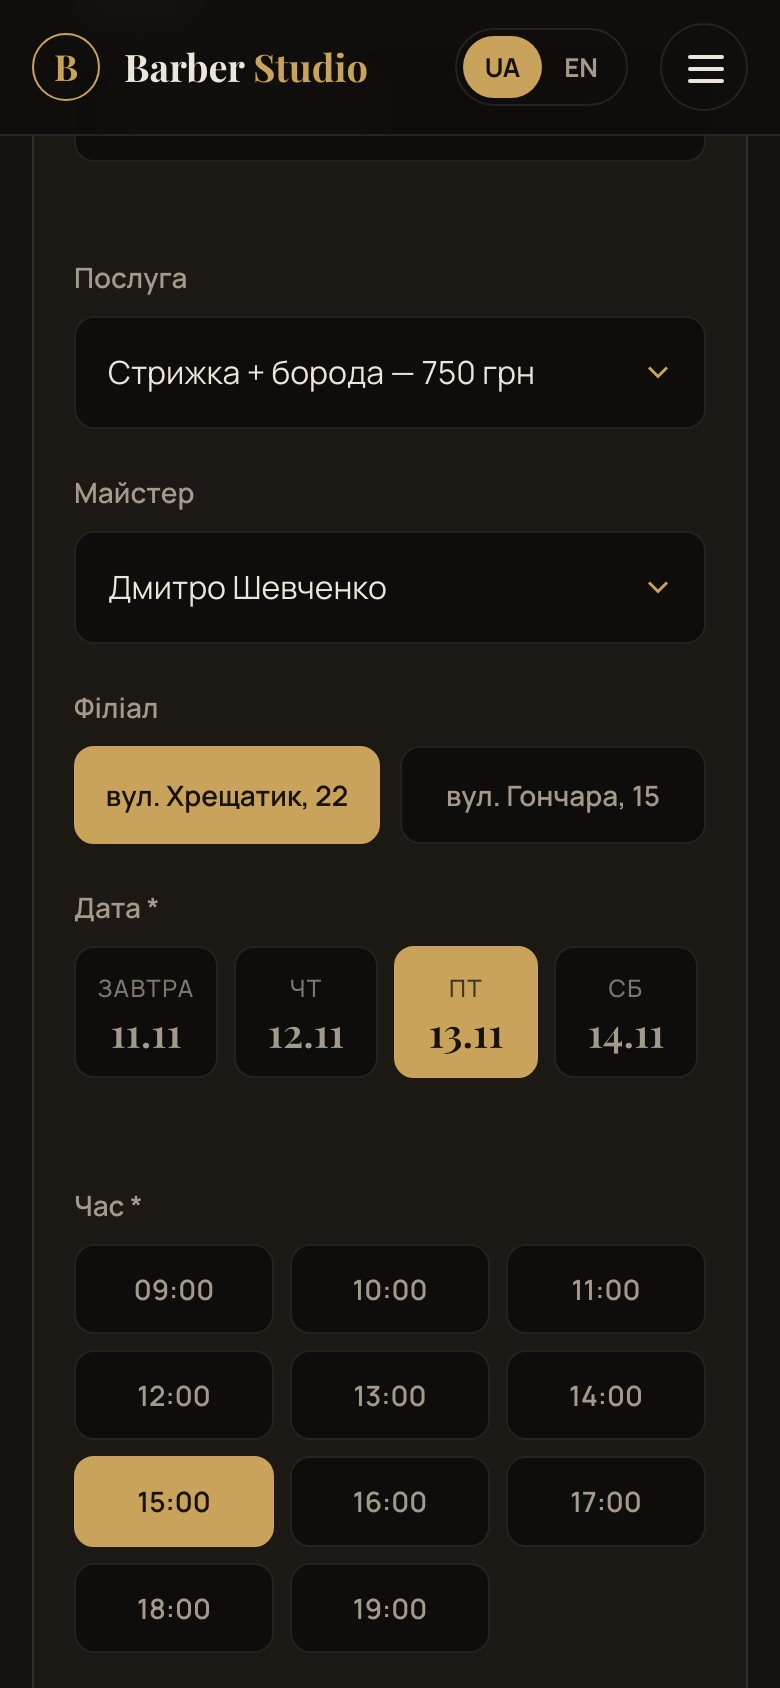
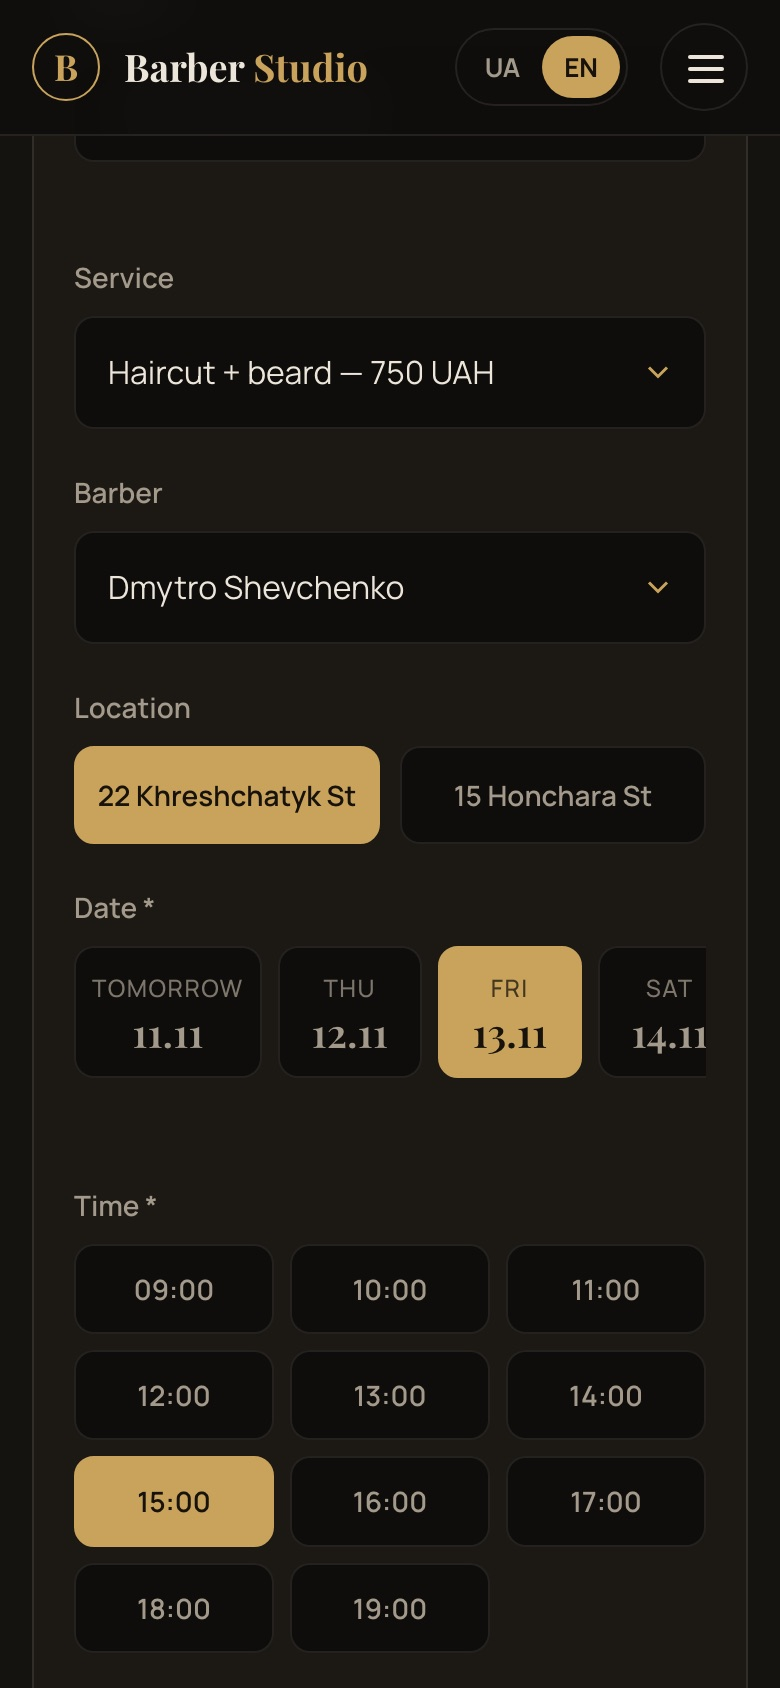
English screenshots in README and ?lang=en link
- Retake all four README screenshots on the English version
- A ?lang=en (or ?lang=uk) link now opens the site in that language
- README live demo points to the English version

diff --git a/script.js b/script.js
@@ -860,13 +860,16 @@ form.addEventListener("submit", async (event) => {
 
 document.getElementById("year").textContent = new Date().getFullYear();
 
-// Мова: збережена раніше або українська за замовчуванням
+// Мова: з посилання (?lang=en), інакше збережена раніше, інакше українська
 let savedLang = DEFAULT_LANG;
 try {
   savedLang = localStorage.getItem("lang") || DEFAULT_LANG;
 } catch (e) {
   /* localStorage недоступний — лишаємо українську */
 }
+// Посилання виду .../?lang=en одразу відкриває англійську версію — зручно надсилати іноземним клієнтам
+const langFromUrl = new URLSearchParams(location.search).get("lang");
+if (translations[langFromUrl]) savedLang = langFromUrl;
 setLanguage(savedLang);
 
 // Підтягуємо зайнятий час із бази

diff --git a/README.md b/README.md
@@ -3,13 +3,13 @@
 A responsive one-page website for **Barber Studio**, a (fictional) barbershop in Kyiv, Ukraine.
 Built as a portfolio demo project with plain HTML, CSS and vanilla JavaScript — no frameworks, no build step. Online booking runs on a small serverless backend (Cloudflare Worker + D1) and delivers requests to the admins' Telegram.
 
-**Live demo:** https://blessedrbls.github.io/barbershop-site/
+**Live demo:** https://blessedrbls.github.io/barbershop-site/?lang=en (English) · [Ukrainian version](https://blessedrbls.github.io/barbershop-site/)
 
 ## Features
 
 - **Dark, modern design** with a warm gold accent, Google Fonts (Playfair Display + Manrope), smooth scrolling and fade-in animations on scroll
 - **Fully responsive** — mobile, tablet and desktop layouts, burger menu on small screens
-- **Two languages:** Ukrainian (default) and English, switchable with the UA / EN toggle in the header; the choice is remembered in the browser. All texts live in one dictionary in `script.js`
+- **Two languages:** Ukrainian (default) and English, switchable with the UA / EN toggle in the header; the choice is remembered in the browser, and a `?lang=en` link opens the English version directly. All texts live in one dictionary in `script.js`
 - **Telegram booking:** "Book via Telegram" buttons on the hero screen and in the services section. The bot link is stored in one variable (`TELEGRAM_BOT_URL` in `script.js`)
 - **Services & prices** — haircut, beard, haircut + beard, kids' haircut
 - **Barbers** — three team cards with photo, experience and specialization
